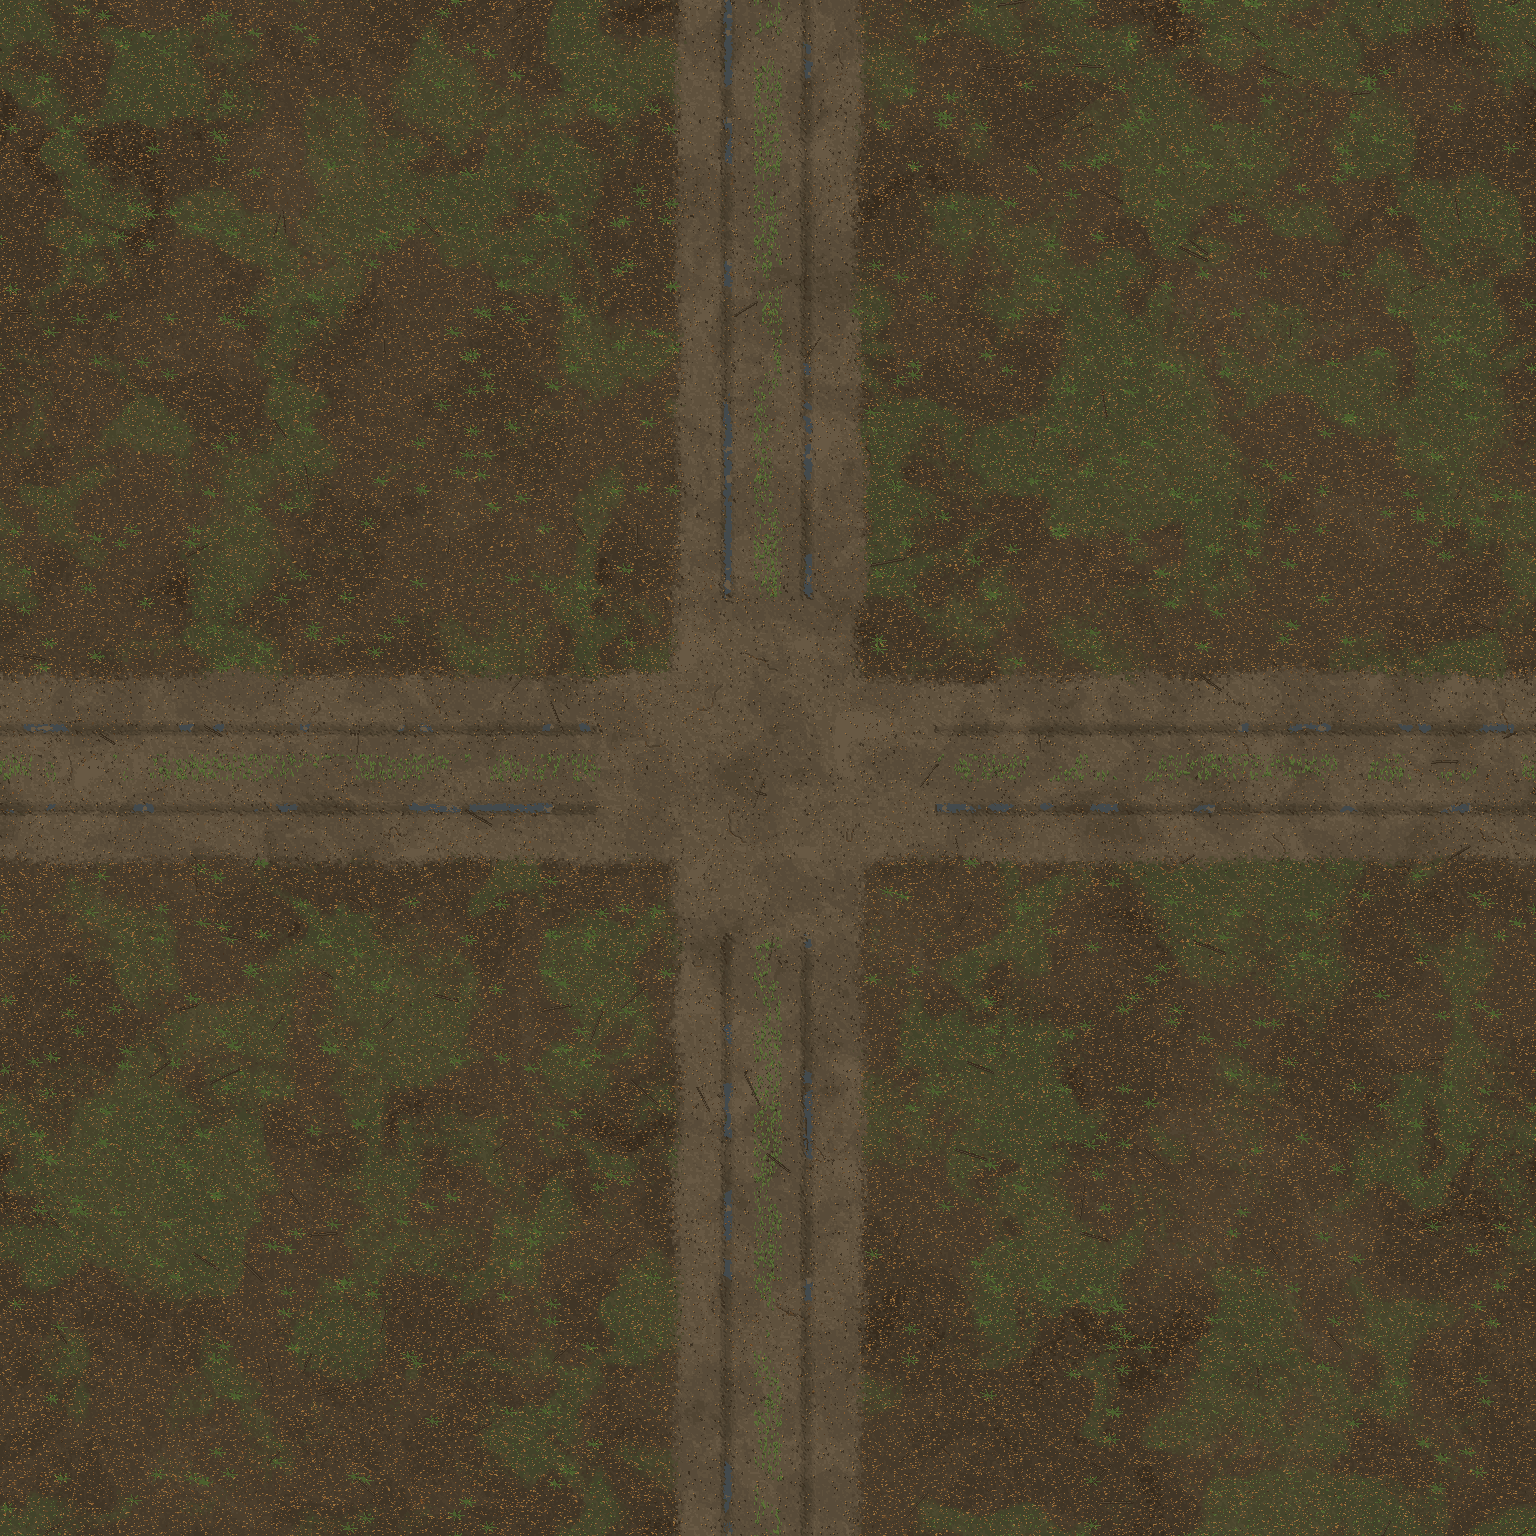
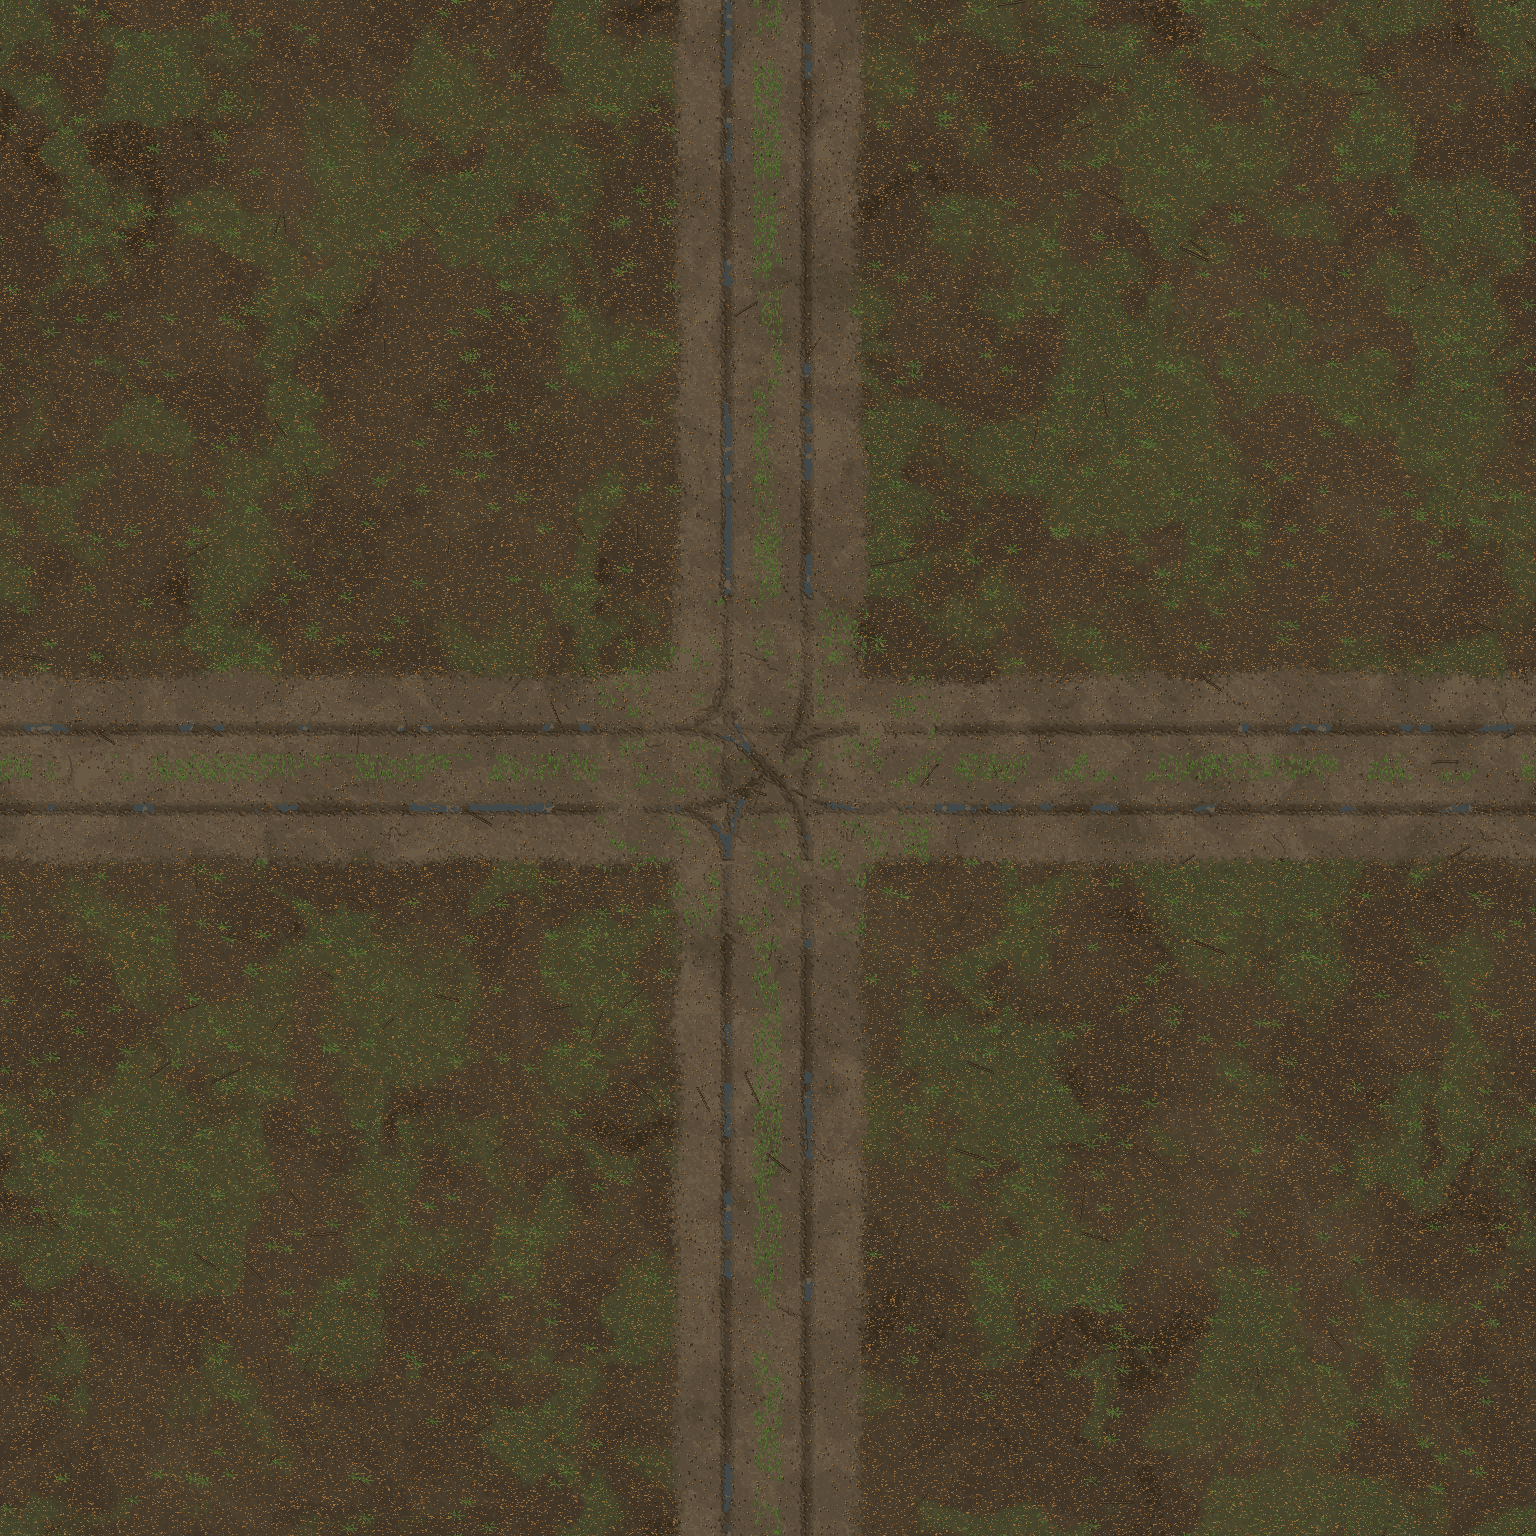
1.55 (work in progress): worn junction ruts on dirt tracks, forest verges, grass clumps
Claude-Session: https://claude.ai/code/session_01Q3d652Ep37MrDZiN13QEse

diff --git a/tools/wa_ground_districts.py b/tools/wa_ground_districts.py
@@ -257,6 +257,41 @@ def ruts(alb, hf, rv, rh, offsets, half=4.0, depth=1.2, dark=0.82):
     return alb, hf
 
 
+def junction_ruts(alb, hf, rv, rh, offsets, hw, half=4.5, depth=1.2, dark=0.82, seed=0):
+    """1.55: wheels do not stop at the crossing. Ruts run on through the
+    junction (fainter, broken where the ground is hard) and the turning traffic
+    has worn quarter arcs from each arm into the next one; between them the
+    trampled middle keeps a few islands of grass (returned as a mask)."""
+    av, ah, inter = arm_masks(rv, rh)
+    c = (R0 + R1) / 2
+    rng = np.random.default_rng(seed)
+    worn = np.zeros(alb.shape[:2])
+    for off in offsets:
+        for coord in (X, Y):
+            dist = np.abs(coord - (c + off))
+            prof = np.clip(1 - dist / half, 0, 1)
+            broken = noise(seed + int(off) + (3 if coord is X else 5), 16, 2) > 0.38
+            worn = np.maximum(worn, prof * inter * broken * 0.6)
+    for sx in (-1, 1):
+        for sy in (-1, 1):
+            cx, cy = c + sx * hw, c + sy * hw
+            for off in offsets:
+                rho = hw - sx * off
+                if rho <= half or rng.random() < 0.35:
+                    continue
+                dist = np.abs(np.hypot(X - cx, Y - cy) - rho)
+                # only the quarter that bends from one arm into the next
+                quarter = ((X - cx) * sx <= 0) & ((Y - cy) * sy <= 0)
+                prof = np.clip(1 - dist / half, 0, 1) * quarter
+                broken = noise(seed + 900 + int(off) + sx * 7 + sy * 13, 14, 2) > 0.3
+                worn = np.maximum(worn, prof * inter * broken * 0.85)
+    k = step(worn, 3, seed + 40, jit=0.9)
+    alb *= (1 - (1 - dark) * k)[..., None]
+    hf -= depth * k
+    islands = inter & (worn < 0.05) & (noise(seed + 50, 10, 2) > 0.56)
+    return alb, hf, islands
+
+
 def kerbs(alb, hf, road, walk, col=(150, 148, 140), seg=12.0, seed=0):
     """kerb stones between carriageway and verge (4 units): lit top, a darker
     face toward the road, joints every seg units, a few broken / missing
@@ -381,6 +416,8 @@ def rural():
     alb[road] = earth[road]
     hf[road] = 0.3 * noise(1112, 4, 2)[road]
     alb, hf = ruts(alb, hf, rv, rh, (-52, -26, 26, 52), half=4.5, depth=1.4, dark=0.8)
+    alb, hf, islands = junction_ruts(alb, hf, rv, rh, (-52, -26, 26, 52), (R1 - R0) / 2, half=4.5, depth=1.4, dark=0.8, seed=1150)
+    alb = blades(alb, islands, 1151, 5000)
     # muted puddles in the ruts after rain
     pud = road & (noise(1114, 30, 3) > 0.72) & (hf < -0.8)
     alb = blend(alb, (70, 76, 74), pud * 0.8)
@@ -422,7 +459,9 @@ def woodland():
     earth = np.array((96, 82, 62), float)[None, None, :] * tone(2108, 20, 0.86, 1.08, 4, 3)[..., None]
     alb = alb * (1 - t_soft[..., None]) + earth * t_soft[..., None]
     hf = hf * (1 - t_soft) + 0.25 * noise(2109, 3, 2) * t_soft
-    alb, hf = ruts(alb, hf, rv, rh, (-20, 20), half=5.0, depth=1.2, dark=0.84)
+    alb, hf = ruts(alb, hf, rv, rh, (-20, 20), half=5.0, depth=1.4, dark=0.76)
+    alb, hf, islands = junction_ruts(alb, hf, rv, rh, (-20, 20), 46, half=5.0, depth=1.4, dark=0.76, seed=2150)
+    alb = blades(alb, islands & track, 2151, 3000, cols=((62, 78, 40), (74, 90, 46), (88, 100, 52)))
     alb = speckle(alb, track, 0.04, [(124, 112, 94), (72, 60, 44)], 2110)
     # rain water standing in the ruts, a grass crown, needles blown onto the track
     pud = track & (hf < -0.7) & (noise(2115, 24, 3) > 0.62)

diff --git a/RELEASE_1550_RU.md b/RELEASE_1550_RU.md
@@ -1,0 +1,29 @@
+# ОСТАТОК 1.55.0 — Наезженные грунтовки
+
+## Скачивание без потолка в 100 МБ
+
+GitHub не принимает файлы больше 100 МБ, а архив игры дошёл до 98,5 МБ.
+Теперь сборка лежит двумя томами 7-Zip: `OSTATOK_1_38_0_WIN.7z.001` и
+`OSTATOK_1_38_0_WIN.7z.002`. Скачайте оба в одну папку и откройте первый —
+7-Zip или WinRAR подхватят второй сам. Игре теперь есть куда расти.
+
+## Перекрёстки грунтовок
+
+На дачах и в лесу колеи обрывались у перекрёстка, а сам перекрёсток был
+пустым однотонным квадратом. Теперь:
+- колеи проходят перекрёсток насквозь, местами прерываясь;
+- поворачивающие машины оставили дуги из одной дороги в другую;
+- в примятой середине остались островки травы;
+- лесные колеи темнее и глубже — в них чаще стоит вода.
+
+## Обочины
+
+- Лесная грунтовка шириной в две колеи; полоса между ней и деревьями теперь
+  считается лесной подстилкой и получает грибы, папоротник, шишки, мох.
+- На самой колее изредка попадаются камешки и сухая трава.
+- Трава растёт кучками по два-три пучка, а не поодиночке, — так её видно
+  издалека.
+
+## Проверка
+
+- Тест `test_ground_details_dev90` и полный набор тестов.
